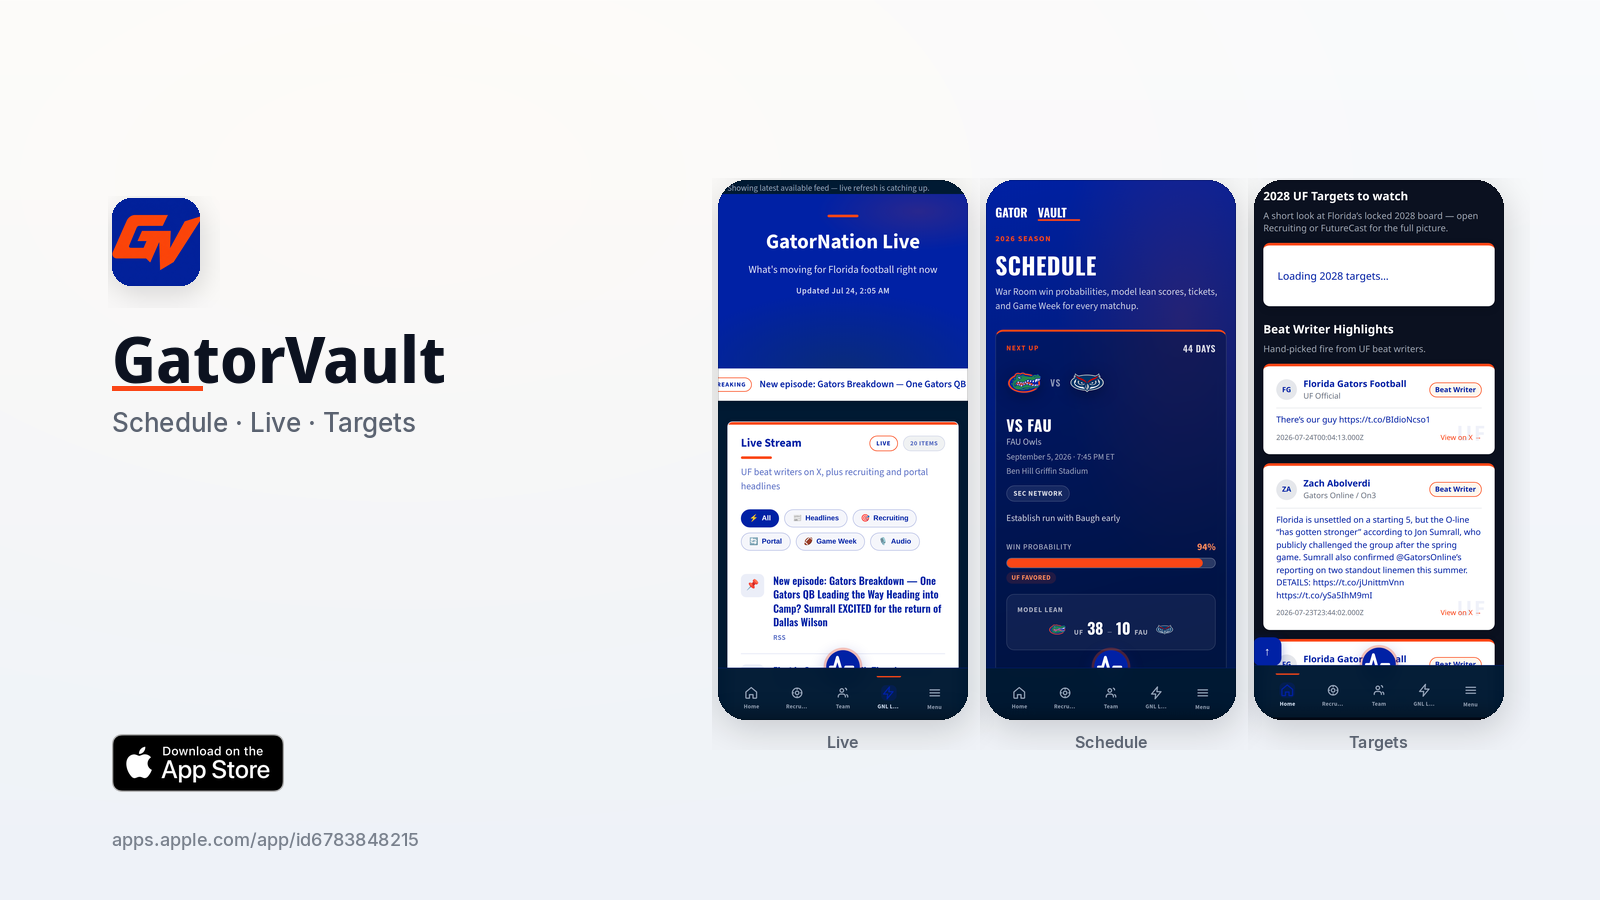
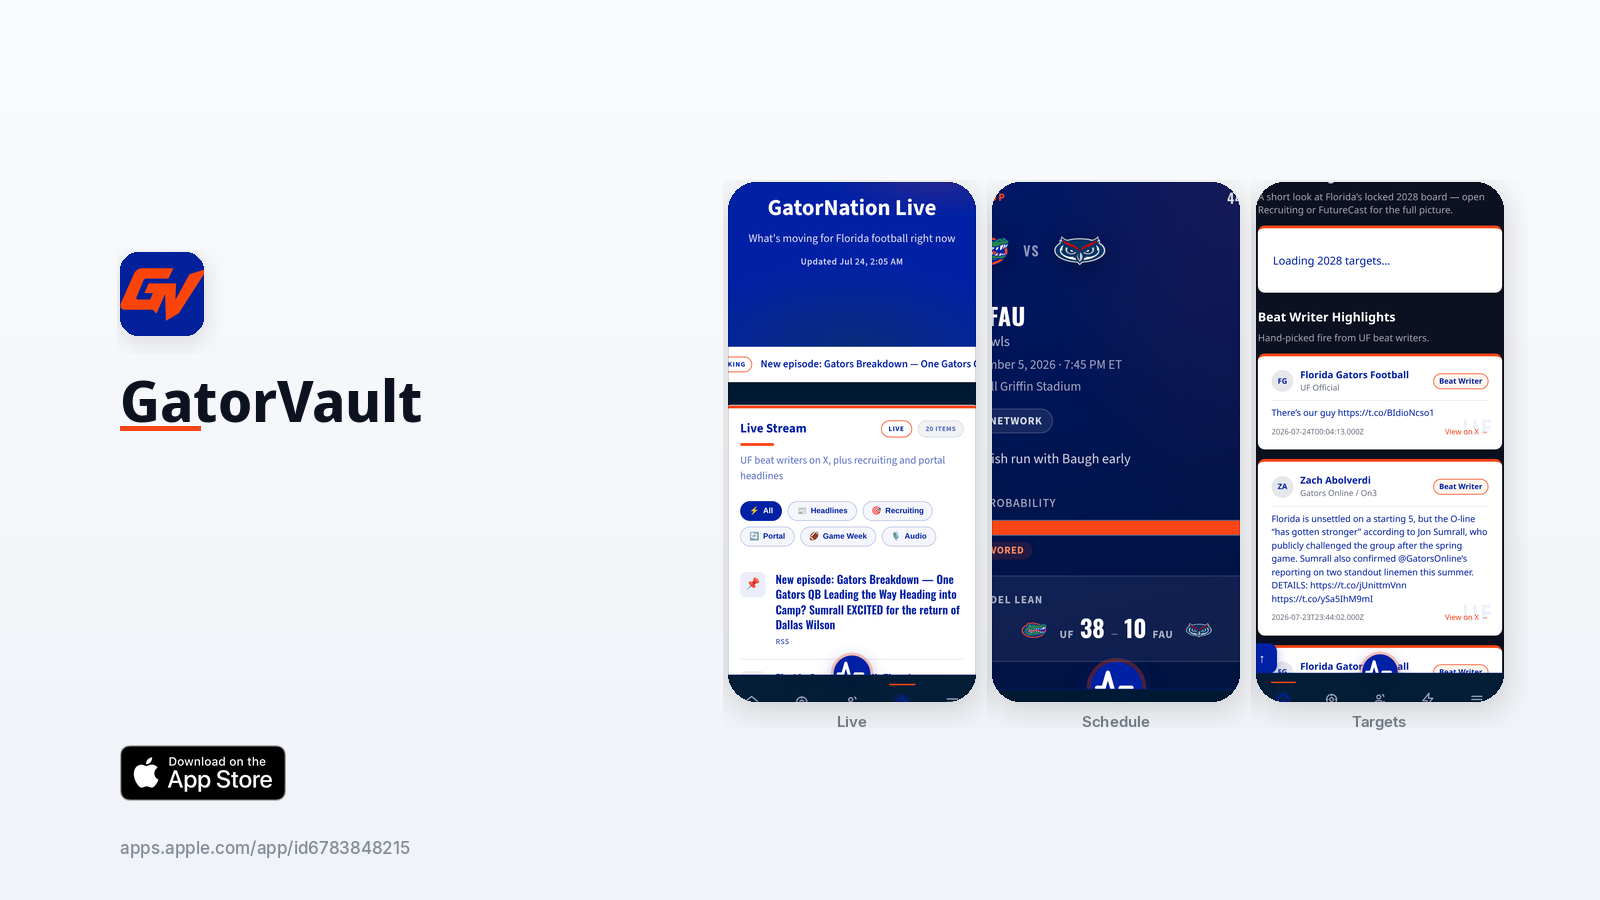
docs(promo): drop War Room copy; show matchup card only
Remove secondary brand/feature lines and crop Schedule to the NEXT UP visual so promo text is not stacked on War Room blurb.

diff --git a/docs/promo/README.md b/docs/promo/README.md
@@ -1,16 +1,16 @@
 # GatorVault App Store social pack
 
-Clean Apple-style creatives — no stadium photo, no watermark text, no floating logo clutter.
+Minimal creatives: icon + name + product + App Store badge.
+No War Room / feature copy beside the screen (avoids writing-on-writing).
 
-## Recommended
+Schedule crop starts at the NEXT UP matchup card (logos + win prob), not the War Room blurb.
+
 | File | Use |
 |---|---|
-| `gatorvault-twitter-facebook-1600x900.png` | **Best default** (light) |
-| `gatorvault-twitter-dark-1600x900.png` | Same layout, quiet navy |
+| `gatorvault-twitter-facebook-1600x900.png` | Best default |
+| `gatorvault-twitter-dark-1600x900.png` | Navy variant |
 | `gatorvault-twitter-triple-1600x900.png` | Live + Schedule + Targets |
-| `gatorvault-square-1080.png` | Square post |
+| `gatorvault-square-1080.png` | Square |
 | `gatorvault-facebook-og-1200x630.png` | Facebook OG |
 
-App Store: https://apps.apple.com/app/id6783848215
-
-Post Download language only when status is **Ready for Sale**.
+https://apps.apple.com/app/id6783848215
